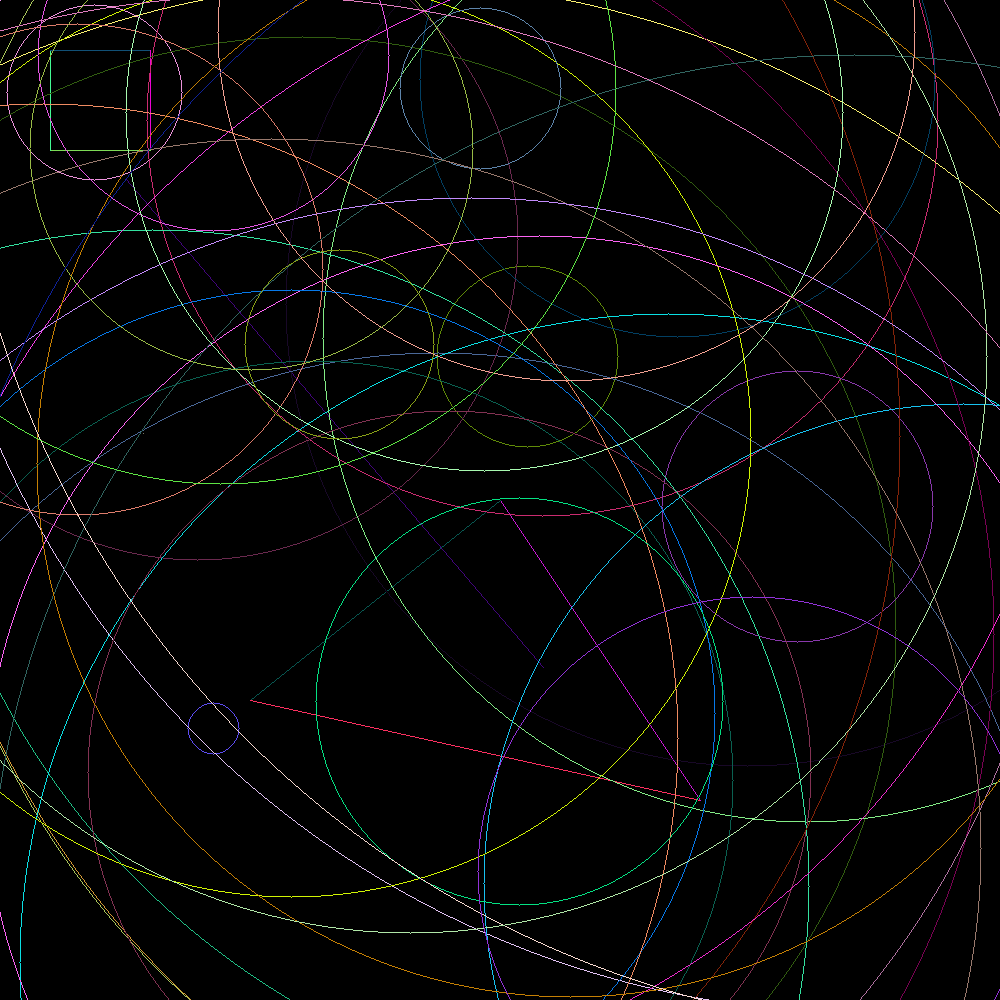
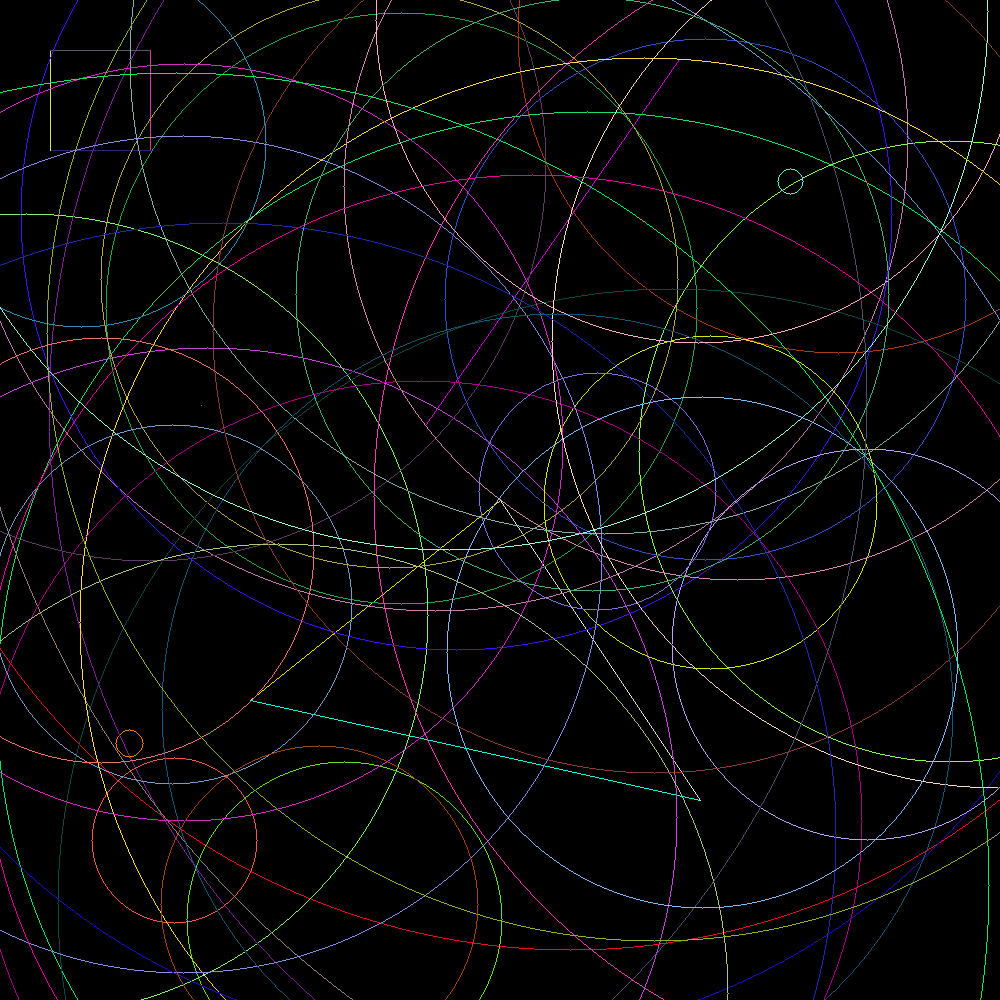
reduce the warning...

diff --git a/src/geometrical_shapes.rs b/src/geometrical_shapes.rs
@@ -8,7 +8,7 @@ pub trait Drawable {
 }
 
 pub trait Displayable {
-    fn display(&mut self, x: i32, y: i32, color: &Color) {}
+    fn display(&mut self, _x: i32, _y: i32, _color: &Color) {}
 }
 
 //--------------------------------------------------------------------------------
@@ -22,14 +22,14 @@ pub struct Point {
 
 impl Point {
     pub fn new(pos_x: i32, pos_y: i32) -> Point {
-        Point { x: pos_x, y: pos_y }  // Creates a Point with the provided x and y coordinates.
+        Point { x: pos_x, y: pos_y } // Creates a Point with the provided x and y coordinates.
     }
 
     pub fn random(width: i32, height: i32) -> Point {
         let mut rng = rand::thread_rng();
         Point {
-            x: rng.gen_range(0..width),   // Random x coordinate within image width.
-            y: rng.gen_range(0..height),  // Random y coordinate within image height.
+            x: rng.gen_range(0..width),  // Random x coordinate within image width.
+            y: rng.gen_range(0..height), // Random y coordinate within image height.
         }
     }
 }
@@ -60,18 +60,16 @@ impl Rectangle {
 
 impl Drawable for Rectangle {
     fn draw(&self, image: &mut Image) {
-        let top_right = Point::new(self.bottom_right.x, self.top_left.y);  // Top-right corner.
-        let bottom_left = Point::new(self.top_left.x, self.bottom_right.y);  // Bottom-left corner.
+        let top_right = Point::new(self.bottom_right.x, self.top_left.y); // Top-right corner.
+        let bottom_left = Point::new(self.top_left.x, self.bottom_right.y); // Bottom-left corner.
 
         // Draw four sides of the rectangle using Line structs.
-        Line::new(self.top_left.clone(), top_right.clone()).draw(image);     // Top side.
+        Line::new(self.top_left.clone(), top_right.clone()).draw(image); // Top side.
         Line::new(top_right, self.bottom_right.clone()).draw(image); // Right side.
         Line::new(self.bottom_right.clone(), bottom_left.clone()).draw(image); // Bottom side.
-        Line::new(bottom_left, self.top_left.clone()).draw(image);   // Left side.
+        Line::new(bottom_left, self.top_left.clone()).draw(image); // Left side.
     }
 }
-
-
 
 //--------------------------------------------------------------------------------
 // Circle
@@ -81,7 +79,6 @@ pub struct Circle {
     c: Point,
     r: i32,
 }
-
 impl Circle {
     pub fn new(center: &Point, radius: i32) -> Circle {
         Circle {
@@ -99,12 +96,13 @@ impl Circle {
 
 impl Drawable for Circle {
     fn draw(&self, image: &mut Image) {
-        let color = random_color();   // Get a random color for the circle.
-        let mut x = self.r;           // Start with x equal to the radius.
-        let mut y = 0;                // Start y at 0.
-        let mut err = 0;              // Initialize error term.
+        let color = random_color(); // Get a random color for the circle.
+        let mut x = self.r; // Start with x equal to the radius.
+        let mut y = 0; // Start y at 0.
+        let mut err = 0; // Initialize error term.
 
-        while x >= y {    // Loop while x >= y to draw all eight octants of the circle.
+        while x >= y {
+            // Loop while x >= y to draw all eight octants of the circle.
             image.display(self.c.x + x, self.c.y + y, &color);
             image.display(self.c.x + y, self.c.y + x, &color);
             image.display(self.c.x - y, self.c.y + x, &color);
@@ -124,9 +122,8 @@ impl Drawable for Circle {
                 err -= 2 * x + 1;
             }
         }
-    }  
+    }
 }
-
 
 //--------------------------------------------------------------------------------
 // Line
@@ -160,12 +157,12 @@ impl Drawable for Line {
 
         let dx = (x2 - x1).abs();
         let dy = (y2 - y1).abs();
-        let sx = if x1 < x2 { 1 } else { -1 };  // Step in x direction.
-        let sy = if y1 < y2 { 1 } else { -1 };  // Step in y direction.
+        let sx = if x1 < x2 { 1 } else { -1 }; // Step in x direction.
+        let sy = if y1 < y2 { 1 } else { -1 }; // Step in y direction.
         let mut err = if dx > dy { dx } else { -dy } / 2;
 
         while x1 != x2 || y1 != y2 {
-            image.display(x1, y1, &color);  // Plot the pixel.
+            image.display(x1, y1, &color); // Plot the pixel.
             let e2 = err;
             if e2 > -dx {
                 err -= dy;
@@ -178,8 +175,6 @@ impl Drawable for Line {
         }
     }
 }
-
-
 
 //--------------------------------------------------------------------------------
 // Triangle
@@ -204,12 +199,11 @@ impl Triangle {
 impl Drawable for Triangle {
     fn draw(&self, image: &mut Image) {
         // Draw the three sides of the triangle.
-        Line::new(self.p1.clone(), self.p2.clone()).draw(image);  // Side 1.
-        Line::new(self.p2.clone(), self.p3.clone()).draw(image);  // Side 2.
-        Line::new(self.p3.clone(), self.p1.clone()).draw(image);  // Side 3.
+        Line::new(self.p1.clone(), self.p2.clone()).draw(image); // Side 1.
+        Line::new(self.p2.clone(), self.p3.clone()).draw(image); // Side 2.
+        Line::new(self.p3.clone(), self.p1.clone()).draw(image); // Side 3.
     }
 }
-
 
 //--------------------------------------------------------------------------------
 // Image

diff --git a/src/main.rs b/src/main.rs
@@ -2,8 +2,8 @@ extern crate raster;
 mod geometrical_shapes;
 
 use geometrical_shapes as gs;
-use gs::{Displayable, Drawable};
-use raster::{Color, Image};
+use gs::Drawable;
+use raster::Image;
 
 fn main() {
     let mut image = Image::blank(1000, 1000);
@@ -21,6 +21,8 @@ fn main() {
         &gs::Point::new(700, 800),
     );
     triangle.draw(&mut image);
+
+    gs::Circle::new(&gs::Point::new(200, 250), 100);
 
     for _ in 1..50 {
         gs::Circle::random(image.width, image.height).draw(&mut image);
